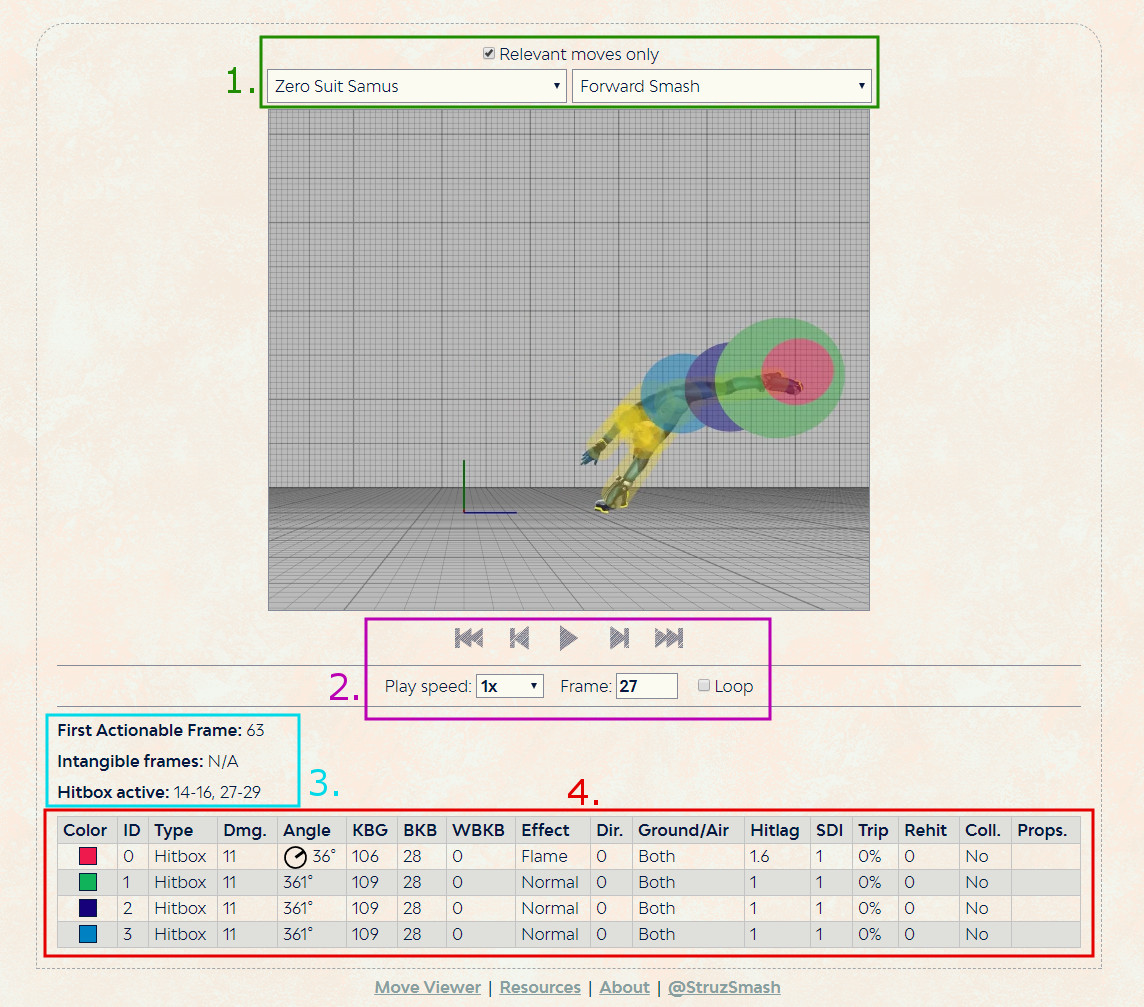
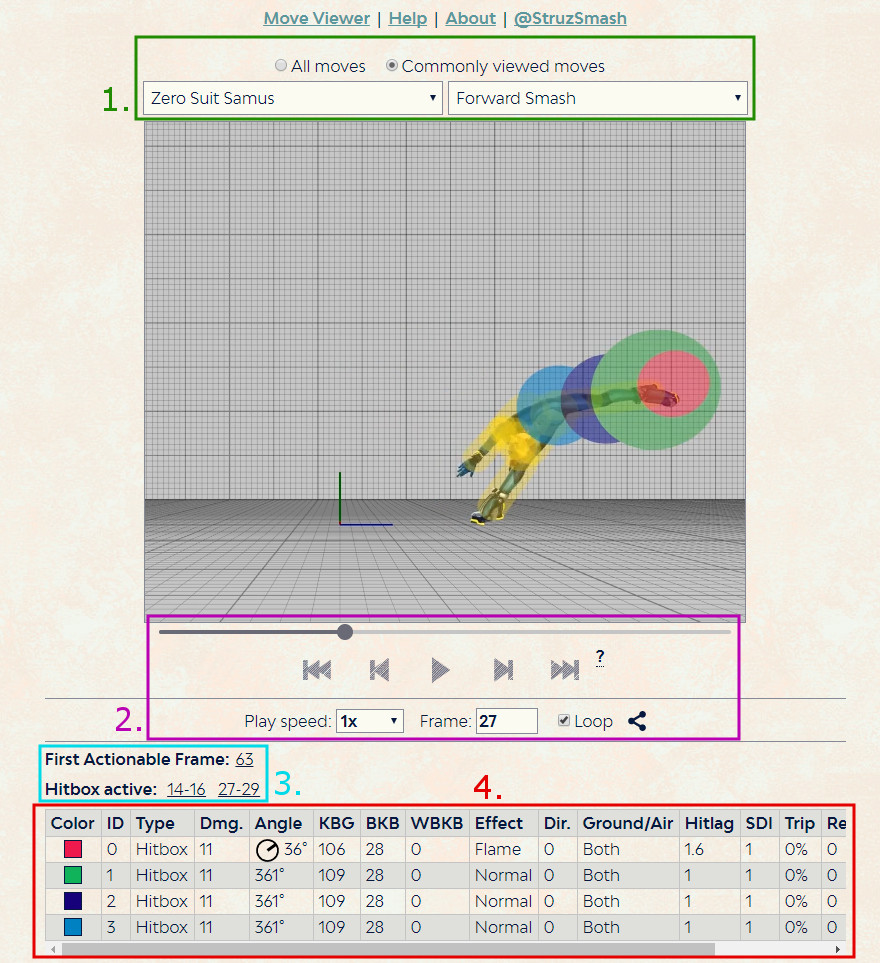
Updated the help and move viewer instructional image to match the newer UI

diff --git a/app/src/Help.js b/app/src/Help.js
@@ -63,7 +63,8 @@ class Help extends Component {
         here is a summary of the entire move. Things that might be here include
         notes about the move, it's First Actionable Frame, and summaries of when
         hurtboxes and hitboxes are present. Mouse over any of the fields to get
-        a detailed description about what they mean.
+        a detailed description about what they mean. Click on any of the frame
+        ranges to jump to the first frame in the range immediately.
         <br /><br />
         <h4 className="Section-4">4. Hitbox information</h4>
         <span className="Bold-label">Find information about specific hitboxes.</span> Always
